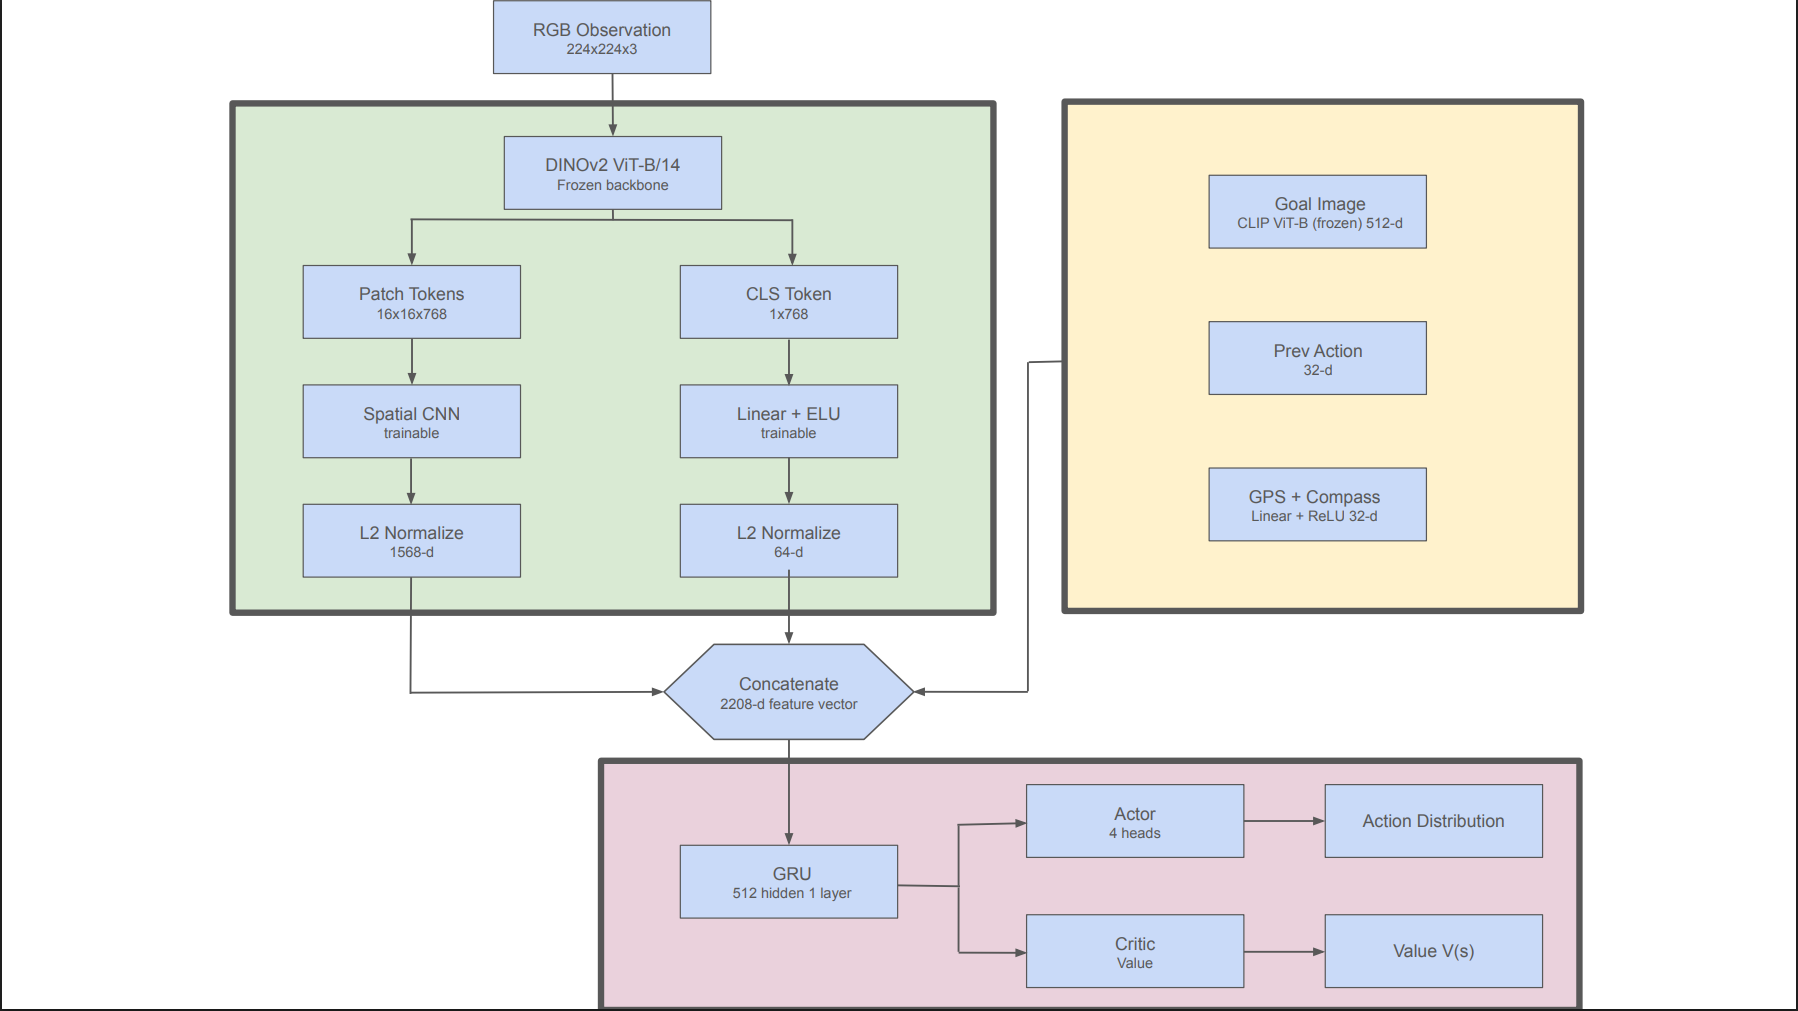
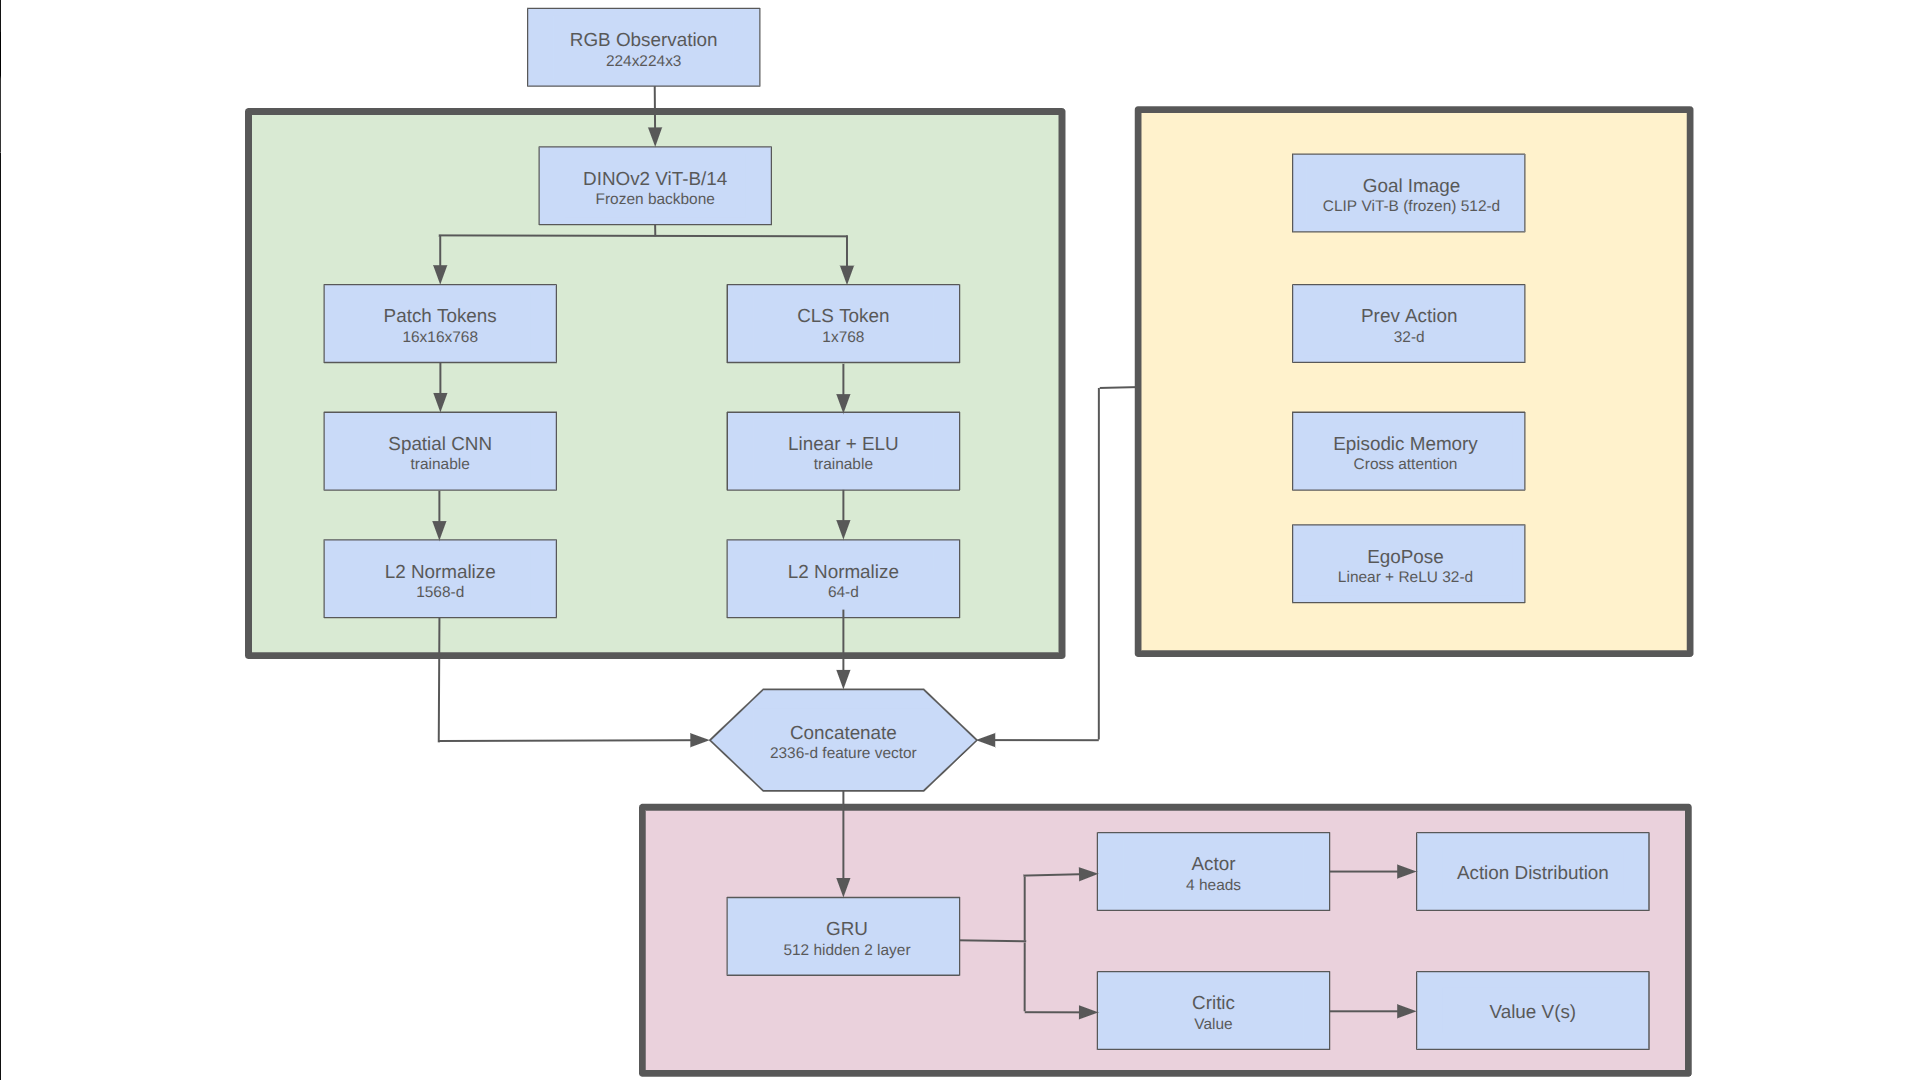
feat: update readme and add visualization images

diff --git a/see2seek/utils/config.py b/see2seek/utils/config.py
@@ -62,6 +62,9 @@ class EnvConfig:
     scene_dataset_path: str = "/home/doece5/see2seek_dipin_adhikari/see2seek/dataset/train"
     episodes_path: str = "/home/doece5/see2seek_dipin_adhikari/see2seek/dataset/train/episodes"
 
+    # scene_dataset_path: str = "/home/doece5/see2seek_dipin_adhikari/see2seek/dataset/val"
+    # episodes_path: str = "/home/doece5/see2seek_dipin_adhikari/see2seek/dataset/val/episodes"
+
     # --- Observation ---
     image_width: int = 224                  # must match DINOv2 expected input
     image_height: int = 224

diff --git a/README.md b/README.md
@@ -1,264 +1,147 @@
 # See2Seek
 
-Zero-shot embodied navigation in RoboTHOR using frozen DINOv2 + CLIP encoders with a recurrent PPO policy augmented by episodic spatial memory. The agent navigates toward image goals (ImageNav) and transfers zero-shot to object goals via language (ObjectNav).
-
-We compare DINOv2's spatial patch features against CLIP's contrastive features as the observation encoder, demonstrating that DINOv2's self-supervised spatial representations combined with episodic memory attention are better suited for multi-room embodied navigation tasks.
+Zero-shot embodied navigation in RoboTHOR using frozen DINOv2 + CLIP encoders with a recurrent PPO policy and episodic spatial memory. Trained on ImageNav (image goals), transfers zero-shot to ObjectNav (object category goals via CLIP text encoding).
 
 ## Architecture
 
 ![System Architecture](docs/system_architecture.png)
 
-### DINOv2 + Episodic Memory (Ours)
+| Branch | Source | Output Dim |
+|--------|--------|------------|
+| Spatial | DINOv2 patches (256x768) -> 2-layer CNN | 1568 |
+| CLS | DINOv2 CLS token -> Linear/LN/ELU | 64 |
+| Goal | CLIP ViT-B/32 embedding -> Linear/LN/ELU | 512 |
+| Episodic Memory | Cross-attention over last 128 CLS tokens + poses | 128 |
+| Prev Action | Learned embedding | 32 |
+| Ego-Pose | Dead-reckoned [x, y, cos(theta), sin(theta)] -> Linear+ReLU | 32 |
+| **GRU input** | | **2336** |
 
-| Branch | Source | Trainable | Output Dim |
-|--------|--------|-----------|------------|
-| Spatial | DINOv2 patches (256x768) -> 2-layer CNN | Yes | 1568 |
-| CLS | DINOv2 CLS token (768) -> Linear/LN/ELU | Yes | 64 |
-| Goal | CLIP ViT-B/32 embedding (512) -> Linear/LN/ELU | Yes | 512 |
-| Episodic Memory | Cross-attention over last 128 CLS tokens + poses | Yes | 128 |
-| Prev Action | Learned embedding of last action | Yes | 32 |
-| PointGoal | [geodesic_dist, cos, sin] -> Linear+ReLU | Yes | 32 |
-| Ego-Pose | [x, y, cos_theta, sin_theta] -> Linear+ReLU | Yes | 32 |
-| **Total GRU input** | | | **2368** |
+**Recurrent core:** 2-layer GRU (512 hidden). Layer 1 fuses multimodal perception, layer 2 handles temporal reasoning and planning.
 
-**Recurrent core:** 2-layer GRU (512 hidden per layer)
-- Layer 1: perception fusion (compresses 2368 -> 512)
-- Layer 2: temporal reasoning and planning
+**Episodic memory:** 128-slot circular buffer of past CLS tokens with pose-conditioned cross-attention. Resets at episode boundaries. Stored tokens are detached (no BPTT through time). Gives the agent a "have I been here before?" signal without explicit map construction.
 
-### Episodic Memory Module
+**Ego-pose:** Dead-reckoned from discrete actions, only updated on successful moves (collision-aware). Combined with episodic memory, enables loop detection and room escape.
 
-```
-  CLS token at step t (768-d)
-         |
-         v
-  +--------------------------------+
-  | Cross-Attention                |
-  |   Query: current CLS + pose    |
-  |   Keys/Values: last 128 CLS    |
-  |   + pose history (detached)    |
-  +--------------------------------+
-         |
-         v
-  Output projection -> (128-d) "have I been here before?" signal
-```
+All encoders (DINOv2 ViT-B/14, CLIP ViT-B/32) are frozen. Only the spatial CNN, projections, memory module, and GRU are trainable.
 
-The memory buffer resets at episode boundaries. Stored tokens are detached (no BPTT through time) — only the Q/K/V projections, pose embedding, and output projection are trainable. This gives the agent a loop-detection signal without explicit map construction.
+## Trajectory Examples
 
-### CLIP Baseline
+| | |
+|:---:|:---:|
+| ![Bowl navigation](docs/images/trajectory_FloorPlan_Val2_4_Bowl_2.png) | ![Laptop navigation](docs/images/trajectory_FloorPlan_Val2_2_Laptop_5.png) |
+| ![SprayBottle navigation](docs/images/trajectory_FloorPlan_Val1_5_SprayBottle_4.png) | ![Mug navigation](docs/images/trajectory_FloorPlan_Val2_2_Mug_5.png) |
+| ![Laptop navigation 2](docs/images/trajectory_FloorPlan_Val2_2_Laptop_1.png) | ![Bowl navigation 2](docs/images/trajectory_FloorPlan_Val3_4_Bowl_7.png) |
 
-| Branch | Source | Trainable | Output Dim |
-|--------|--------|-----------|------------|
-| Observation | CLIP ViT-B/32 CLS token (512) -> projection | Yes | 512 |
-| Goal | CLIP ViT-B/32 image/text embedding | No (frozen) | 512 |
-| Prev Action | Learned embedding of last action | Yes | 32 |
-| PointGoal | [geodesic_dist, cos(angle), sin(angle)] -> Linear+ReLU | Yes | 32 |
-| **Total** | | | **1088** |
-
-### PointGoal Sensor (GPS+Compass)
-
-```
-  Agent Position + Rotation (from simulator)
-  Goal Position (from episode metadata)
-            |
-            v
-  +----------------------------+
-  | Compute:                   |
-  |  - Geodesic distance       |
-  |  - Relative angle to goal  |
-  +----------------------------+
-            |
-            v
-  [ geodesic_dist, cos(angle), sin(angle) ]   -->  Linear(3, 32) + ReLU  -->  (32-d)
-```
-
-Used during **ImageNav training/eval** (goal location known). Dropped 50% of training time via **per-episode dropout** — each episode either has full GPS or none, decided at episode start. This prevents the GRU's recurrent state from leaking GPS information across steps (a per-step dropout would allow the hidden state to cache GPS from ON-steps and replay it during OFF-steps, inflating training SR without actually learning visual navigation). For **ObjectNav** testing, zeroed out entirely — the GRU retains learned navigation behaviors from training.
-
-### Ego-Pose Sensor (Dead-Reckoned Position)
-
-```
-  Actions executed since episode start
-            |
-            v
-  +----------------------------+
-  | Dead-reckon pose:          |
-  |  - x, y relative to start  |
-  |  - cos(theta), sin(theta)  |
-  |    (agent heading)         |
-  +----------------------------+
-            |
-            v
-  [ x, y, cos(theta), sin(theta) ]   -->  Linear(4, 32) + ReLU  -->  (32-d)
-```
-
-Provides explicit spatial awareness of the agent's position relative to episode start. Combined with episodic memory, enables loop detection and room escape behavior without depth sensors or explicit mapping. The pose is accumulated from discrete actions (MoveAhead: x += 0.25*sin(θ), y += 0.25*cos(θ); Rotate: update θ by ±30°), but **only when the action actually succeeds** — failed MoveAhead actions (wall collisions) do not update the pose, keeping dead-reckoned position aligned with the agent's true location.
+Green paths = successful trials, red = failed. Dark green = oracle shortest path. White circle = start, red circle = goal.
 
 ## Reward Function
 
-```
-  r_t = geodesic_scale * Δd_tg + angle_scale * Δa_tg + r_slack + r_explore + r_collision + r_rotation
-```
-
-```
-  +-----------------------------------------------------------+
-  |                    Per-Step Reward                         |
-  +-----------------------------------------------------------+
-  |                                                           |
-  |  r_t = geodesic_reward_scale * Δd_tg                     |
-  |       + angle_reward_scale * Δa_tg  (only if < 1m)       |
-  |       + slack_reward                                      |
-  |       + exploration_bonus if visiting a new cell         |
-  |       + collision_penalty if collided                    |
-  |       + rotation_penalty if rotated                      |
-  |                                                           |
-  +-----------------------------------------------------------+
-
-  +-----------------------------------------------------------+
-  |                  Terminal: Stop Action                     |
-  +-----------------------------------------------------------+
-  |                                                           |
-  |  if dist < success_distance:                              |
-  |      reward = success_reward                              |
-  |      if heading_diff < angle_success_threshold:           |
-  |          reward += angle_success_reward                   |
-  |  else:                                                    |
-  |      reward = failed_stop_penalty * shaped_distance_term |
-  |                                                           |
-  +-----------------------------------------------------------+
-```
-
-The angle-to-goal shaping (Δa_tg) is only active when the agent is within 1m of the goal position. This encourages the agent to first navigate to the goal, then orient to match the goal image viewpoint before calling Stop — matching the requirements for downstream ObjectNav transfer. The exploration bonus is also included as an intrinsic reward for new grid-cell visits and decays over time via the curriculum/exploration schedule.
-
-### Reward Parameters
-
 | Parameter | Value | Purpose |
 |-----------|-------|---------|
-| `geodesic_reward_scale` | 2.0 | Reward for reducing shortest-path distance to goal |
-| `angle_reward_scale` | 1.0 | Reward for reducing angle-to-goal heading (only within 1m) |
-| `slack_reward` | -0.01 | Per-step cost (encourages efficiency) |
-| `collision_penalty` | -0.01 | Discourages walking into walls |
-| `rotation_penalty` | -0.005 | Fixed cost per rotation (prevents spinning) |
-| `exploration_bonus` | 0.05 | Intrinsic reward for visiting a new grid cell |
-| `exploration_decay_steps` | 3_000_000 | Linearly decays exploration bonus to 0 |
-| `success_reward` | +10.0 | Large bonus for stopping within 1m of goal |
-| `angle_success_reward` | +5.0 | Bonus for stopping within 1m AND facing goal heading (±25°) |
-| `failed_stop_penalty` | -1.0 | Max penalty for stopping too far (shaped by distance) |
-| `min_steps_before_stop` | 20 | Stop action masked for first 20 steps |
+| `success_reward` | +10.0 | Stopping within 1m of goal |
+| `angle_success_reward` | +5.0 | Stopping within 1m AND facing goal heading (±25°) |
+| `failed_stop_penalty` | -0.5 | Stopping far from goal (shaped by distance) |
+| `timeout_penalty` | -2.0 | Episode times out without stopping |
+| `geodesic_reward_scale` | 1.5 | Reward for reducing shortest-path distance |
+| `slack_reward` | -0.005 | Per-step cost |
+| `exploration_bonus` | 0.10 | Intrinsic reward for new grid cell visits, decays to 0 over 10M steps |
+| `collision_penalty` | -0.01 | Walking into walls |
+| `rotation_penalty` | -0.002 | Per-rotation cost to prevent spinning |
 
-The asymmetric terminal rewards ensure that exploration is always preferred over premature stopping — even at low success rates, the expected value of exploring dominates early termination.
+Angle-to-goal shaping is only active within 1m of the goal, encouraging the agent to orient before calling Stop.
 
 ## Training
 
 ```bash
-# Train with DINOv2 obs encoder (default)
-python scripts/train.py --obs_encoder dino
+# Train (DINOv2 obs encoder, no GPS)
+python scripts/train.py
 
-# Train with CLIP obs encoder (baseline)
-python scripts/train.py --obs_encoder clip
+# Train with PointGoal sensor
+python scripts/train.py --with_pointgoal
 
 # Resume from checkpoint
-python scripts/train.py --resume data_dino_v3/checkpoints/checkpoint_000000051200.pth
+python scripts/train.py --resume data_dino_v7/checkpoints/checkpoint_xxxxxx.pth
 
 # Debug mode (2 envs, 2 updates, no W&B)
 python scripts/train.py --debug
 ```
 
-### Training Configuration
+### Configuration
 
-- **Environments:** 16 parallel RoboTHOR workers (shared-memory VecEnv)
-- **Rollout:** 128 steps/env = 2048 steps per PPO update
-- **PPO:** 4 epochs, 2 mini-batches, clip=0.2, entropy_coef=0.03
-- **Optimizer:** Adam, lr=2.5e-4 with linear decay to 0.1x over training
-- **Total steps:** 10M
-- **GRU:** 2-layer, 512 hidden units
-- **Episodic memory:** 128-slot circular buffer, single-head cross-attention with pose conditioning
-- **PointGoal dropout:** 50% per-episode (for zero-shot ObjectNav transfer)
-- **Exploration bonus:** +0.05 per new cell, decays over 3,000,000 env steps
-- **Curriculum:** max_steps ramps from 150 to 500 over 2,000,000 env steps
+- 16 parallel RoboTHOR workers (shared-memory VecEnv with auto worker respawn)
+- 128 steps/env = 2048 steps per PPO update
+- PPO: 4 epochs, 2 mini-batches, clip=0.2, entropy_coef=0.05
+- Adam lr=2.5e-4 with linear decay
+- Curriculum: max_steps 150 -> 500 over 3M steps
+- Exploration bonus: 0.10 per new cell, decays over 10M steps
 
 ## Evaluation
 
 ```bash
-# ImageNav evaluation (with GPS)
-python scripts/eval.py --checkpoint data_dino_v3/checkpoints/checkpoint_final.pth --task imagenav
-
-# ImageNav evaluation (visual-only, no GPS)
-python scripts/eval.py --checkpoint data_dino_v3/checkpoints/checkpoint_final.pth --task imagenav --zero_pointgoal
+# ImageNav evaluation
+python scripts/eval.py --checkpoint data_dino_v7/checkpoints/checkpoint_final.pth --task imagenav
 
 # Zero-shot ObjectNav (text goal, no GPS)
-python scripts/eval.py --checkpoint data_dino_v3/checkpoints/checkpoint_final.pth --task objectnav
-
-# Evaluate CLIP baseline model
-python scripts/eval.py --checkpoint data_dino_v3/checkpoints/clip_checkpoint.pth --obs_encoder clip --task imagenav
+python scripts/eval.py --checkpoint data_dino_v7/checkpoints/checkpoint_final.pth --task objectnav
 ```
+
+Evaluation logs per-episode path length and shortest path length, with a difficulty breakdown (easy <3m, medium 3-7m, hard >7m).
 
 ### Metrics
 
 - **SR (Success Rate):** Fraction of episodes where agent stops within 1m of goal
 - **SPL (Success weighted by Path Length):** SR penalized by path inefficiency
 
+## Visualization
+
+```bash
+# Single episode, 5 stochastic trials overlaid on AI2-THOR top-down view
+python scripts/visualize_trajectory.py \
+    --checkpoint data_dino_v7/checkpoints/checkpoint_final.pth \
+    --episodes FloorPlan_Val3_2_Apple_6 \
+    --episodes_path /path/to/val/episodes \
+    --scene_dataset_path /path/to/val
+
+# ObjectNav visualization
+python scripts/visualize_trajectory.py \
+    --checkpoint data_dino_v7/checkpoints/checkpoint_final.pth \
+    --task objectnav --use_list \
+    --episodes_path /path/to/val/episodes \
+    --scene_dataset_path /path/to/val
+```
+
 ## Project Structure
 
 ```
 See2Seek/
 ├── scripts/
-│   ├── train.py              # Training entry point
-│   ├── eval.py               # Evaluation entry point
-│   ├── plot_evaluation.py    # Evaluation plot generation
-│   ├── plot_training.py      # Training curve visualization
-│   └── visualize_trajectory.py # Trajectory visualization
+│   ├── train.py                # Training entry point
+│   ├── eval.py                 # Evaluation entry point
+│   ├── visualize_trajectory.py # Bird's-eye trajectory visualization
+│   ├── plot_training.py        # Training curve plots
+│   └── plot_evaluation.py      # Evaluation result plots
 ├── see2seek/
 │   ├── agents/
-│   │   └── gru_policy.py     # 2-layer GRU Actor-Critic + Episodic Memory + SpatialCompressionHead
+│   │   └── gru_policy.py       # 2-layer GRU Actor-Critic + Episodic Memory
 │   ├── buffers/
-│   │   └── rollout_buffer.py # Recurrent PPO rollout storage (multi-layer hidden)
+│   │   └── rollout_buffer.py   # Recurrent PPO rollout storage
 │   ├── envs/
-│   │   ├── robothor_env.py   # RoboTHOR gym wrapper + reward logic
-│   │   └── vec_env.py        # Shared-memory vectorized environments
+│   │   ├── robothor_env.py     # RoboTHOR wrapper + reward logic
+│   │   └── vec_env.py          # Shared-memory VecEnv with worker respawn
 │   ├── models/encoders/
-│   │   ├── dino_encoder.py   # Frozen DINOv2 ViT-B/14
-│   │   └── clip_encoder.py   # Frozen CLIP ViT-B/32
+│   │   ├── dino_encoder.py     # Frozen DINOv2 ViT-B/14
+│   │   └── clip_encoder.py     # Frozen CLIP ViT-B/32
 │   ├── trainers/
-│   │   └── ppo_trainer.py    # PPO training loop (with memory propagation)
+│   │   └── ppo_trainer.py      # PPO training loop
 │   ├── evaluation/
-│   │   └── evaluator.py      # Parallel evaluation loop
+│   │   └── evaluator.py        # Parallel evaluation loop
 │   └── utils/
-│       └── config.py         # Central configuration
-├── configs/
-│   ├── eval.yaml             # evaluation config
-│   └── train_robothor.yaml   # YAML config overrides
-├── data_dino_v5/             # checkpoints, logs, goal caches (current)
-├── dataset/                  # RoboTHOR episode data
-├── docs/                     # architecture diagrams
-├── tests/
+│       └── config.py           # Central configuration
+├── docs/                       # Architecture diagram + trajectory images
+├── configs/                    # YAML config overrides
 ├── requirements.txt
-├── setup.py
-├── README.md
-└── .gitignore
+└── setup.py
 ```
-
-## Key Design Decisions
-
-1. **Frozen encoders, trainable fusion:** DINOv2 and CLIP never update — only the spatial CNN, CLS projection, goal projection, episodic memory, and GRU train. This keeps compute low and leverages pretrained representations.
-
-2. **Episodic memory for loop detection:** Instead of explicit mapping, the agent uses attention over past CLS tokens plus pose information to detect revisited locations. This lightweight mechanism enables multi-room navigation without constructing a spatial map.
-
-3. **Trainable goal projection:** The CLIP goal embedding passes through a learned Linear/LN/ELU layer (512->512) so the model can shape goal representations for navigation rather than relying on the GRU to implicitly project.
-
-4. **2-layer GRU:** Hierarchical temporal processing — layer 1 fuses multimodal perception, layer 2 handles planning and temporal reasoning over longer horizons.
-
-5. **Asymmetric terminal rewards:** Success (+10.0) vs failed stop (-1.0 shaped) ensures the expected value of exploration dominates premature stopping, even at low success rates. Prevents degenerate "wait-then-stop" policies.
-
-6. **Raw token storage in buffer:** The rollout buffer stores raw DINOv2 outputs (not compressed features) so gradients flow through trainable heads during PPO updates.
-
-7. **L2-normalized branches:** Spatial, CLS, Goal, PointGoal, and Ego-Pose branches are all L2-normalized to unit norm before concatenation, ensuring no branch dominates by magnitude alone.
-
-8. **Per-episode PointGoal dropout (50%):** GPS+Compass sensor teaches the GRU *how to navigate* during ImageNav; learned behaviors transfer to ObjectNav at test time where PointGoal is unavailable. Dropout is per-episode (not per-step) to prevent the GRU hidden state from leaking GPS across steps.
-
-9. **Collision-aware dead reckoning:** Ego-pose accumulator only updates on successful MoveAhead actions. Failed moves (wall collisions) leave the pose unchanged, keeping dead-reckoned position consistent with reward signals and preventing corrupted poses from propagating into episodic memory's position-aware attention.
-
-10. **Cached geodesic distance:** The Unity RPC for shortest-path distance is only called when the agent's position actually changes (successful MoveAhead). Rotations and failed moves reuse the cached value, eliminating ~60-70% of per-step RPCs.
-
-11. **Linear LR decay:** Learning rate decays linearly to 10% of initial value over training, preventing late-stage policy oscillation and entropy collapse after convergence.
 
 ## References
 
